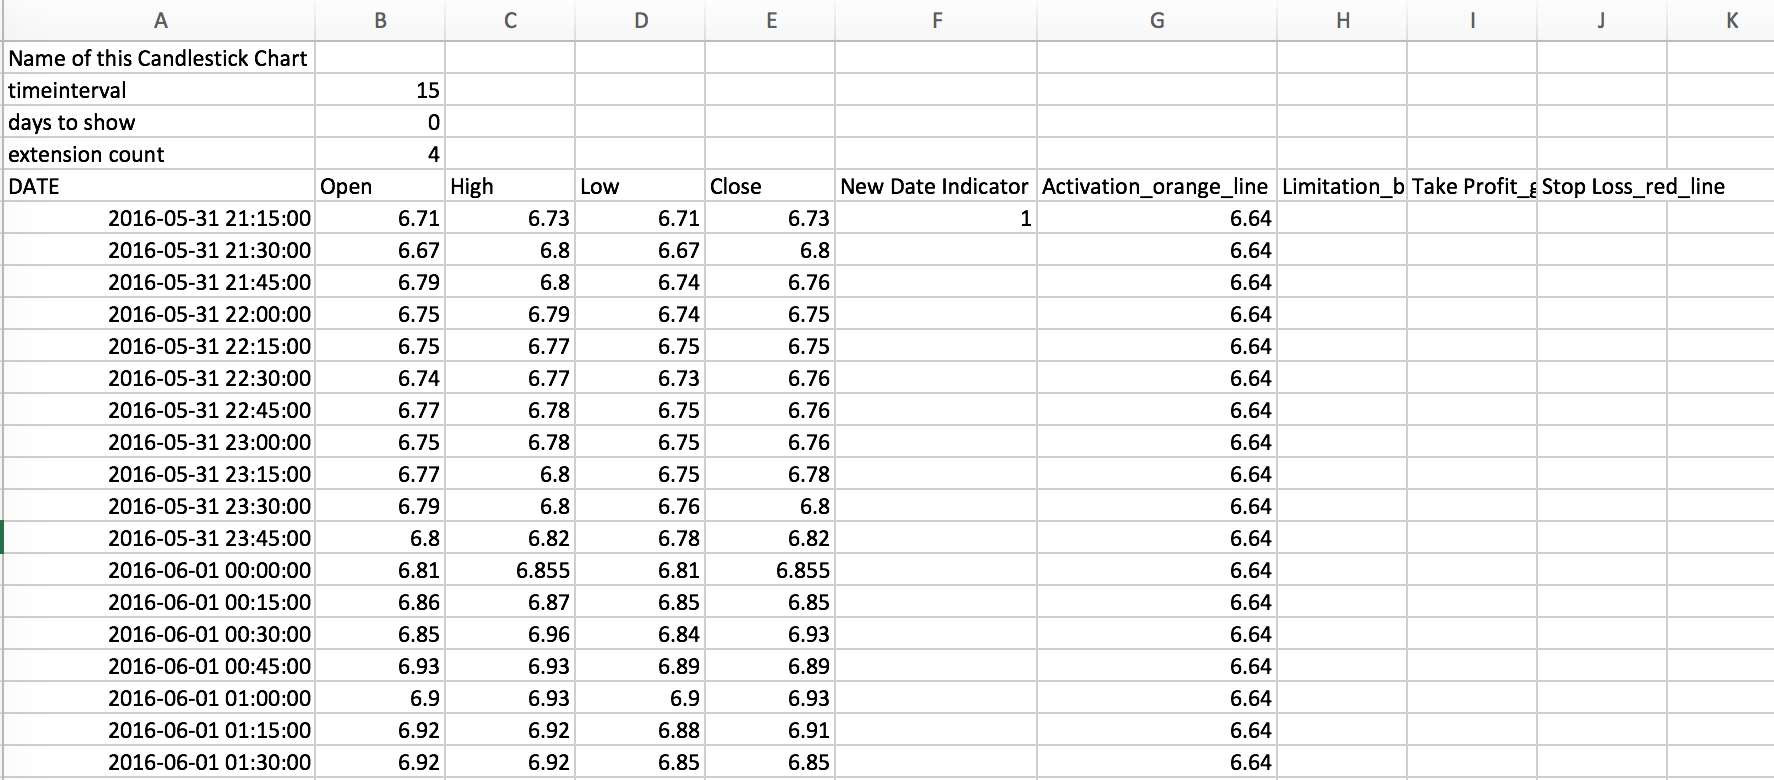
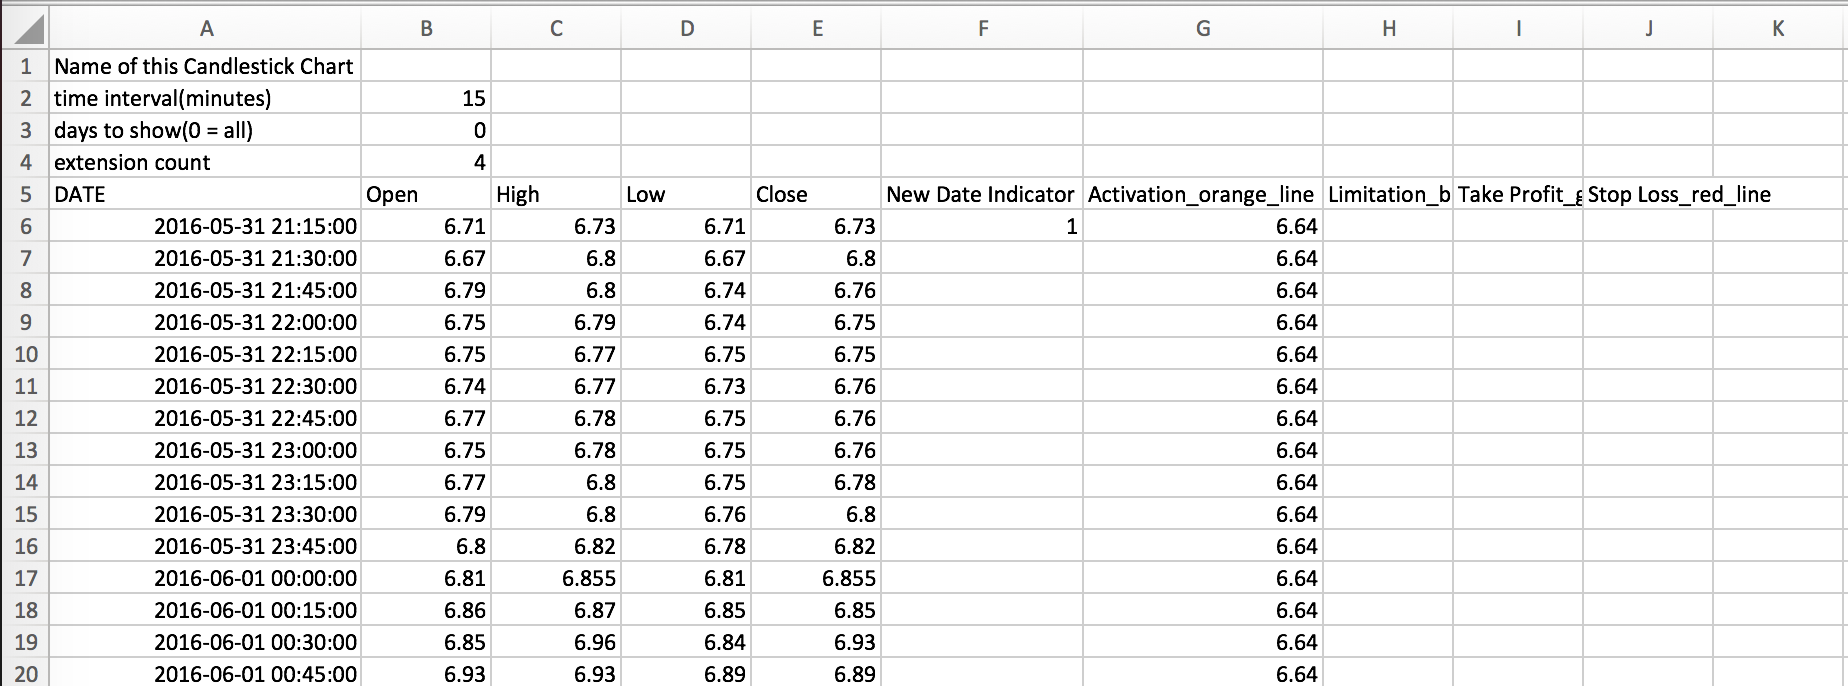
update specification

Changed region(s): [[0.0, 0.0, 1.0, 1.0]]

diff --git a/Doc/GenericCandle/GenericCandle.md b/Doc/GenericCandle/GenericCandle.md
@@ -2,7 +2,7 @@
 **Generic Candlestick** is a program to generate candlestick chart from a .csv file. User can add some **line extension** to the chart. The output is a html file
 
 ###Function
-1. Generate candlestick chart
+1. Generate candlestick chart(html file)
 2. Add line extension
 
 ###Usage
@@ -11,14 +11,14 @@ The input must be a csv file in a certain format. For now, put the csv file and 
 > ![example](./ExampleData.png)
 
 1. Row 1 define the title of the chart. If the user do not enter anything here, the program will name the chart *'Candlestick'*
-2. Row 2 indicate the time interval between each candle. This data must be exactly the same as the time intervel between each candle. The unit must be **minute**.
+2. Row 2 indicate the time interval between each candle. This data must be exactly the same as the time intervel between each candle. The program will take this time interval to generate candles. The unit must be **minute**.
 3. Row 3 indicate how many days the user want to show. If it is 0, the chart will show all the data. If not, it will show exactly that amount of dates from the end of the data. For example, if it is 5, the chart will show the last 5 days. If the use enter a invalid data(such as *-1*), the chart will show all the data. 
-4. Row 4 is the count of extension. In this case, the extension data is from *G* to *J* so the count is 4.
+4. Row 4 is the count of extension. User can add as much as extensions they want and each extension should be one column. In this case, the extension data is from *G* to *J* so the count is 4.
 5. Row 5 is the name of columns. **DO NOT** change the six names which is from *DATE* to *New Date Indicator*. 
-6. Column 1 is the date and time of the candle. User must save the date using the certain format **"2016-05-31 21:15:00"**. If the format of the datetime is incorrect, then the program will exit.
-7. Column 2 to 5 are the *open, high, low, close* data. Just input data here and note that the *high* must be bigger than *low* otherwise the program will exit.
-8. **Column 6 is important** if user wants to show certain amount of dates. Set this column to **1** if the data entry is the first data of a business day. If user just wants to show all the data, this column can be left empty.
-9. Column 7 and the following are the extensions. The name of the data should be defined as `name_color_line type`. Use can choose `color` and `line type` from the table below. Each data in this column will be shown in a time interval period. In this case, that is 15 minutes. If the use doesnot input the name here, like ' _ _ ', the program will assign a default `name`, `color` and `line type` for this extension.
+6. Column A is the date and time of the candle. User must save the date using the certain format **"2016-05-31 21:15:00"** (yyyy-mm-dd hh:mm:ss). If the format of the datetime is incorrect, then the program will exit.
+7. Column B to E are the *open, high, low, close* data. Just input data here and note that the *high* must be bigger than *low* otherwise the program will exit.
+8. **Column F is important** if user wants to show certain amount of dates. Set this column to **1** if the data entry is the first data of a business day. If user just wants to show all the data, this column can be left empty.
+9. Column G and the following are the extensions. The name of the data should be defined as `name_color_line type`. Use can choose `color` and `line type` from the table below. Each data in this column will be shown in a time interval period. In this case, that is 15 minutes. If the use doesnot input the name here, like ' _ _ ', the program will assign a default `name`, `color` and `line type` for this extension.
 
 ###Output
 For now, the output is a html file like below. The four lines are four extensions.
